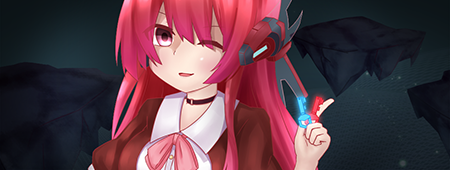
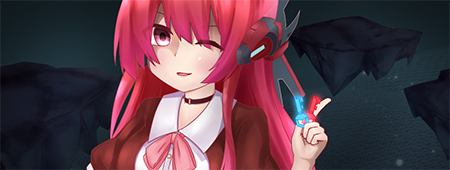
1.12.7 early 3
改动比例八十七，就删两层div

diff --git a/include/modules/extra/misc/bubblebox/start.htm b/include/modules/extra/misc/bubblebox/start.htm
@@ -1,28 +1,37 @@
-<div id=<!--{eval echo '"fmsgbox'.((string)\bubblebox\bubblebox_get_style('id')).'"';}--> style="display:none">
+<!--{eval $bbox_id=\bubblebox\bubblebox_get_style('id');
+$bbox_width=(int)\bubblebox\bubblebox_get_style('width');
+$bbox_height=(int)\bubblebox\bubblebox_get_style('height');
+$bbox_z_index_base=(int)\bubblebox\bubblebox_get_style('z-index-base');
+$bbox_offset_x=(int)\bubblebox\bubblebox_get_style('offset-x');
+$bbox_offset_y=(int)\bubblebox\bubblebox_get_style('offset-y');
+$bbox_opacity=(double)\bubblebox\bubblebox_get_style('opacity');
+$bbox_cancellable=(int)\bubblebox\bubblebox_get_style('cancellable');
+$bbox_scroll_bar=(int)\bubblebox\bubblebox_get_style('scroll-bar');
+$bbox_border_width_x=(int)\bubblebox\bubblebox_get_style('border-width-x');
+$bbox_border_width_y=(int)\bubblebox\bubblebox_get_style('border-width-y');
+$bbox_margin_top=(int)\bubblebox\bubblebox_get_style('margin-top');
+$bbox_margin_bottom=(int)\bubblebox\bubblebox_get_style('margin-bottom');
+$bbox_margin_left=(int)\bubblebox\bubblebox_get_style('margin-left');
+$bbox_margin_right=(int)\bubblebox\bubblebox_get_style('margin-right');
+}-->
 
-<!--全屏背景降低-->
-<div style="position:fixed; left:0px; top:0px; z-index:<!--{eval echo 2+((int)\bubblebox\bubblebox_get_style('z-index-base'));}-->; margin:auto auto; filter:alpha(opacity=20); opacity:0.2; min-width:100%; max-width:100%; min-height:100%; max-height:100%; background-color:#000000">
-</div>
-<!--END-->
+<div id="fmsgbox{$bbox_id}" style="display:none">
 
 <!--构建半透明外缘-->
-<div style="position:fixed; left:0px; top:0px; z-index:<!--{eval echo 3+((int)\bubblebox\bubblebox_get_style('z-index-base'));}-->; margin:auto auto; min-width:100%; max-width:100%; min-height:100%; max-height:100%;">
-<div style="position:absolute; z-index:<!--{eval echo 4+((int)\bubblebox\bubblebox_get_style('z-index-base'));}-->; top:50%; margin-top:<!--{eval echo (((int)\bubblebox\bubblebox_get_style('offset-y'))-ceil((((int)\bubblebox\bubblebox_get_style('height'))+((int)\bubblebox\bubblebox_get_style('border-width-y'))*2+((int)\bubblebox\bubblebox_get_style('margin-top'))+((int)\bubblebox\bubblebox_get_style('margin-bottom')))/2)).'px';}-->; left:50%; margin-left:<!--{eval echo (((int)\bubblebox\bubblebox_get_style('offset-x'))-ceil((((int)\bubblebox\bubblebox_get_style('width'))+((int)\bubblebox\bubblebox_get_style('border-width-x'))*2+((int)\bubblebox\bubblebox_get_style('margin-left'))+((int)\bubblebox\bubblebox_get_style('margin-right')))/2)).'px';}-->; ">
-<div style="position:relative; z-index:<!--{eval echo 4+((int)\bubblebox\bubblebox_get_style('z-index-base'));}-->; margin-left:auto; margin-right:auto; filter:alpha(opacity=20); opacity:0.2; min-width:<!--{eval echo (((int)\bubblebox\bubblebox_get_style('width'))+((int)\bubblebox\bubblebox_get_style('border-width-x'))*2+((int)\bubblebox\bubblebox_get_style('margin-left'))+((int)\bubblebox\bubblebox_get_style('margin-right'))).'px';}-->; max-width:<!--{eval echo (((int)\bubblebox\bubblebox_get_style('width'))+((int)\bubblebox\bubblebox_get_style('border-width-x'))*2+((int)\bubblebox\bubblebox_get_style('margin-left'))+((int)\bubblebox\bubblebox_get_style('margin-right'))).'px';}-->; min-height:<!--{eval echo (((int)\bubblebox\bubblebox_get_style('height'))+((int)\bubblebox\bubblebox_get_style('border-width-y'))*2+((int)\bubblebox\bubblebox_get_style('margin-top'))+((int)\bubblebox\bubblebox_get_style('margin-bottom'))).'px';}-->; max-height:<!--{eval echo (((int)\bubblebox\bubblebox_get_style('height'))+((int)\bubblebox\bubblebox_get_style('border-width-y'))*2+((int)\bubblebox\bubblebox_get_style('margin-top'))+((int)\bubblebox\bubblebox_get_style('margin-bottom'))).'px';}-->; background-color:#000000">
-</div>
+<div class="bubblebox_positioner" style="z-index:<!--{eval echo 3+$bbox_z_index_base;}-->;">
+<div style="position:absolute; z-index:<!--{eval echo 4+$bbox_z_index_base;}-->; top:50%; margin-top:<!--{eval echo ($bbox_offset_y-ceil(($bbox_height+$bbox_border_width_y*2+$bbox_margin_top+$bbox_margin_bottom)/2)).'px';}-->; left:50%; margin-left:<!--{eval echo ($bbox_offset_x-ceil(($bbox_width+$bbox_border_width_x*2+$bbox_margin_left+$bbox_margin_right)/2)).'px';}-->; 
+	filter:alpha(opacity=20); opacity:0.2; min-width:<!--{eval echo ($bbox_width+$bbox_border_width_x*2+$bbox_margin_left+$bbox_margin_right).'px';}-->; max-width:<!--{eval echo ($bbox_width+$bbox_border_width_x*2+$bbox_margin_left+$bbox_margin_right).'px';}-->; min-height:<!--{eval echo ($bbox_height+$bbox_border_width_y*2+$bbox_margin_top+$bbox_margin_bottom).'px';}-->; max-height:<!--{eval echo ($bbox_height+$bbox_border_width_y*2+$bbox_margin_top+$bbox_margin_bottom).'px';}-->; background-color:#000000">
 </div>
 </div>
 <!--END-->
 
 <!--构建文本框-->
-<div style="position:fixed; left:0px; top:0px; z-index:<!--{eval echo 3+((int)\bubblebox\bubblebox_get_style('z-index-base'));}-->; margin:auto auto; min-width:100%; max-width:100%; min-height:100%; max-height:100%;" <!--{if ((int)\bubblebox\bubblebox_get_style('cancellable'))==1}--> onclick="bubblebox_hide('<!--{eval echo (string)\bubblebox\bubblebox_get_style('id');}-->');"<!--{/if}-->>
-<div style="position:absolute; z-index:<!--{eval echo 5+((int)\bubblebox\bubblebox_get_style('z-index-base'));}-->; top:50%; margin-top:<!--{eval echo (((int)\bubblebox\bubblebox_get_style('offset-y'))-ceil((((int)\bubblebox\bubblebox_get_style('height'))+((int)\bubblebox\bubblebox_get_style('margin-top'))+((int)\bubblebox\bubblebox_get_style('margin-bottom')))/2)).'px';}-->; left:50%; margin-left:<!--{eval echo (((int)\bubblebox\bubblebox_get_style('offset-x'))-ceil((((int)\bubblebox\bubblebox_get_style('width'))+((int)\bubblebox\bubblebox_get_style('margin-left'))+((int)\bubblebox\bubblebox_get_style('margin-right')))/2)).'px';}-->; ">
-<div style="position:relative; min-width:<!--{eval echo (((int)\bubblebox\bubblebox_get_style('width'))+((int)\bubblebox\bubblebox_get_style('margin-left'))+((int)\bubblebox\bubblebox_get_style('margin-right'))).'px';}-->; max-width:<!--{eval echo (((int)\bubblebox\bubblebox_get_style('width'))+((int)\bubblebox\bubblebox_get_style('margin-left'))+((int)\bubblebox\bubblebox_get_style('margin-right'))).'px';}-->; min-height:<!--{eval echo (((int)\bubblebox\bubblebox_get_style('height'))+((int)\bubblebox\bubblebox_get_style('margin-top'))+((int)\bubblebox\bubblebox_get_style('margin-bottom'))).'px';}-->; max-height:<!--{eval echo (((int)\bubblebox\bubblebox_get_style('height'))+((int)\bubblebox\bubblebox_get_style('margin-top'))+((int)\bubblebox\bubblebox_get_style('margin-bottom'))).'px';}-->; z-index:<!--{eval echo 5+((int)\bubblebox\bubblebox_get_style('z-index-base'));}-->; margin:0 auto; filter:alpha(opacity=<!--{eval echo round(((double)\bubblebox\bubblebox_get_style('opacity'))*100);}-->); opacity:<!--{eval echo ((double)\bubblebox\bubblebox_get_style('opacity'));}-->; background-color:#000000" onclick="if (event.stopPropagation) event.stopPropagation(); else event.cancelBubble = true; ">
-<div style="position:relative; margin-left:0px; margin-top:0px; margin-right:0px; margin-bottom:0px; z-index:<!--{eval echo 6+((int)\bubblebox\bubblebox_get_style('z-index-base'));}-->; background-color:rgba(17,17,17,0.5); *BACKGROUND:rgb(17,17,17); *filter:alpha(opacity=50); BORDER: #000 0px none; color: #fff; text-align: center; border-right: #111 1px solid;font:10pt '微软雅黑' serif;">
-<!--END-->
-
-<!--构建文字区-->
-<div style="position:relative; margin-left:<!--{eval echo ((int)\bubblebox\bubblebox_get_style('margin-left')).'px';}-->; margin-top:0px; margin-right:0px; margin-bottom:<!--{eval echo ((int)\bubblebox\bubblebox_get_style('margin-bottom')).'px';}-->; min-height:<!--{eval echo (((int)\bubblebox\bubblebox_get_style('height'))+((int)\bubblebox\bubblebox_get_style('margin-top'))+((int)\bubblebox\bubblebox_get_style('margin-bottom'))).'px';}-->; max-height:<!--{eval echo (((int)\bubblebox\bubblebox_get_style('height'))+((int)\bubblebox\bubblebox_get_style('margin-top'))+((int)\bubblebox\bubblebox_get_style('margin-bottom'))).'px';}-->; text-align:left; overflow-x:hidden; overflow-y:auto;" >
-<div <!--{eval if (((int)\bubblebox\bubblebox_get_style('scroll-bar'))==1) echo 'class="scroll-pane'.((string)\bubblebox\bubblebox_get_style('id')).'"';}--> style="max-height:<!--{eval echo ((int)\bubblebox\bubblebox_get_style('height')).'px';}-->; width:<!--{eval echo ((int)\bubblebox\bubblebox_get_style('width')).'px';}-->; overflow-x:hidden; overflow-y:auto; margin-top:<!--{eval echo ((int)\bubblebox\bubblebox_get_style('margin-top')).'px';}-->; position:relative;">
-<div style="position:relative; height:auto; margin-left:0px; margin-top:0px; margin-right:0px; margin-bottom:0px; ">
+<!--全屏背景降低+跳出点击区-->
+<div class="bubblebox_positioner" style="z-index:<!--{eval echo 3+$bbox_z_index_base;}-->;background-color:rgba(0,0,0,0.35);" <!--{if $bbox_cancellable}--> onclick="bubblebox_hide('{$bbox_id}');"<!--{/if}-->>
+<div style="position:absolute; z-index:<!--{eval echo 5+$bbox_z_index_base;}-->; top:50%; margin-top:<!--{eval echo ($bbox_offset_y-ceil(($bbox_height+$bbox_margin_top+$bbox_margin_bottom)/2)).'px';}-->; left:50%; margin-left:<!--{eval echo ($bbox_offset_x-ceil(($bbox_width+$bbox_margin_left+$bbox_margin_right)/2)).'px';}-->;
+	 min-width:<!--{eval echo ($bbox_width+$bbox_margin_left+$bbox_margin_right).'px';}-->; max-width:<!--{eval echo ($bbox_width+$bbox_margin_left+$bbox_margin_right).'px';}-->; min-height:<!--{eval echo ($bbox_height+$bbox_margin_top+$bbox_margin_bottom).'px';}-->; max-height:<!--{eval echo ($bbox_height+$bbox_margin_top+$bbox_margin_bottom).'px';}-->;
+	 filter:alpha(opacity=<!--{eval echo round($bbox_opacity*100);}-->); opacity:{$bbox_opacity}; background-color:#000000;"
+	 onclick="if (event.stopPropagation) event.stopPropagation(); else event.cancelBubble = true; ">
+<div class="bubblebox_container" style="z-index:<!--{eval echo 6+$bbox_z_index_base;}-->;margin-left:{$bbox_margin_left}px; margin-top:{$bbox_margin_top}px; margin-right:0px; margin-bottom:{$bbox_margin_bottom}px; min-height:<!--{eval echo ($bbox_height+$bbox_margin_top+$bbox_margin_bottom).'px';}-->; max-height:<!--{eval echo ($bbox_height+$bbox_margin_top+$bbox_margin_bottom).'px';}-->;" >
+<div <!--{eval if ($bbox_scroll_bar) echo 'class="scroll-pane'.$bbox_id.'"';}--> style="max-height:{$bbox_height}px; width:{$bbox_width}px; margin:0; overflow-x:hidden; overflow-y:auto; position:relative;">
 <!--END-->

diff --git a/gamedata/config/style_1.20180727.css b/gamedata/config/style_1.20180727.css
@@ -208,6 +208,19 @@ div#loading{
 	BACKGROUND: #000;filter:alpha(opacity=50); opacity:0.5;
 	background-image: url("../../img/loading.gif");background-repeat: no-repeat;background-position:center;background-attachment: fixed;
 }
+/*==========半透明悬浮气泡框==========*/
+div.bubblebox_positioner{
+	position:fixed; left:0px; top:0px;
+	margin:auto auto;
+	min-width:100%; max-width:100%; min-height:100%; max-height:100%;
+}
+div.bubblebox_container{
+	position:relative;
+	background-color:rgba(17,17,17,0.5); *BACKGROUND:rgb(17,17,17); *filter:alpha(opacity=50);
+	BORDER: #000 0px none; color: #fff;
+	text-align: center;
+	font:10pt 微软雅黑 serif;text-align:left; overflow-x:hidden; overflow-y:auto;
+}
 /*==========悬浮提示==========*/
 #hoverHintMsg{
 	display:none;

diff --git a/templates/default/header.htm b/templates/default/header.htm
@@ -7,7 +7,7 @@
 <title> $gtitle </title>
 <!--{if isset($extrahead)}-->$extrahead<!--{/if}-->
 
-<link rel="stylesheet" type="text/css" id="css" href="gamedata/config/style_1.20180722.css">
+<link rel="stylesheet" type="text/css" id="css" href="gamedata/config/style_1.20180727.css">
 <link rel="stylesheet" type="text/css" id="css" href="gamedata/config/style_buttons.20180118.css">
 <link rel="stylesheet" type="text/css" id="css" href="gamedata/config/style_glowbuttons.20180726.css">
 <!--{if CURSCRIPT=='messages'}-->

diff --git a/templates/default/updatelist.htm b/templates/default/updatelist.htm
@@ -10,7 +10,7 @@
 <p>游戏功能更新：</p>
 <ul>
 	<li>修复了荣耀和极速房的房主退出过房间的情况下，游戏结束后房间会秒退，某些情况下导致获胜者看不到结局的问题。现在无论房主是不是退出过房间，这两类房间结束后都会在准备状态下倒数30秒。</li>
-	<li>部分结局加入了新的结局画面。</li>
+	<li>部分开头和结局加入了新的插图。</li>
 </ul>
 <h3>7月23日 (v1.12.6)</h3>
 <p>游戏功能更新：</p>

diff --git a/include/modules/extra/misc/bubblebox/end.htm b/include/modules/extra/misc/bubblebox/end.htm
@@ -3,6 +3,3 @@
 </div>
 </div>
 </div>
-</div>
-</div>
-</div>

diff --git a/include/modules/core/sys/config/version.config.php b/include/modules/core/sys/config/version.config.php
@@ -1,9 +1,10 @@
 <?php
 //游戏版本
-$gameversion = 'N.E.W. v1.12.6';
+$gameversion = 'N.E.W. v1.12.7';
 //版权信息
 $gamecredits = <<<GAMECREDITS
 	<a href="https://github.com/winddramon/dts/">DTS $gameversion developed by sillycross, Lein, Yoshiko_G AND illustrated by KHIBIKI.</a><br>
+	<a>立绘及剧情图片绘师：KHIBIKI, noui, サークル　うどんワンタン</a><br>
 	<a href="http://www.jewel-s.jp/">部分图像资源采用了JewelSaviorFREE[http://www.jewel-s.jp/]的免费素材</a><br>
 	<a href="http://www.amarilloviridian.com">Reconsituted from 常磐大逃杀 GE600 by 冴月 麟, Yoshiko_G, sillycross, Lein.</a><br>
 	<a>生存游戏 - BRA简体版V3.0.2 translated by azazil@loongyou.com</a><br>
